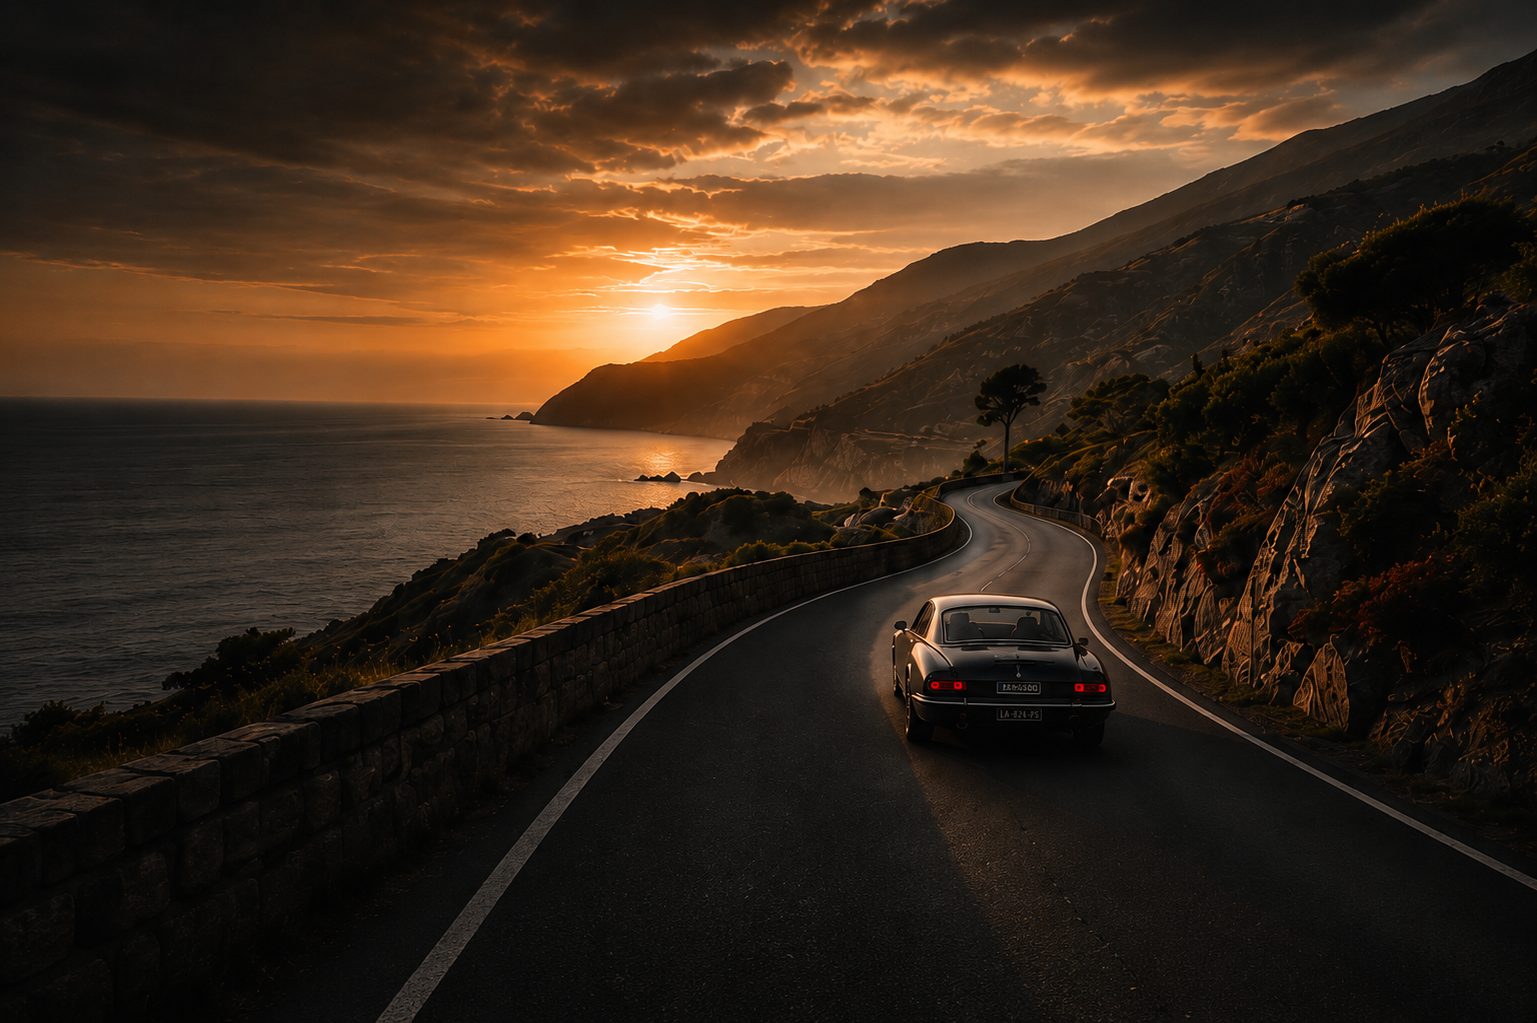
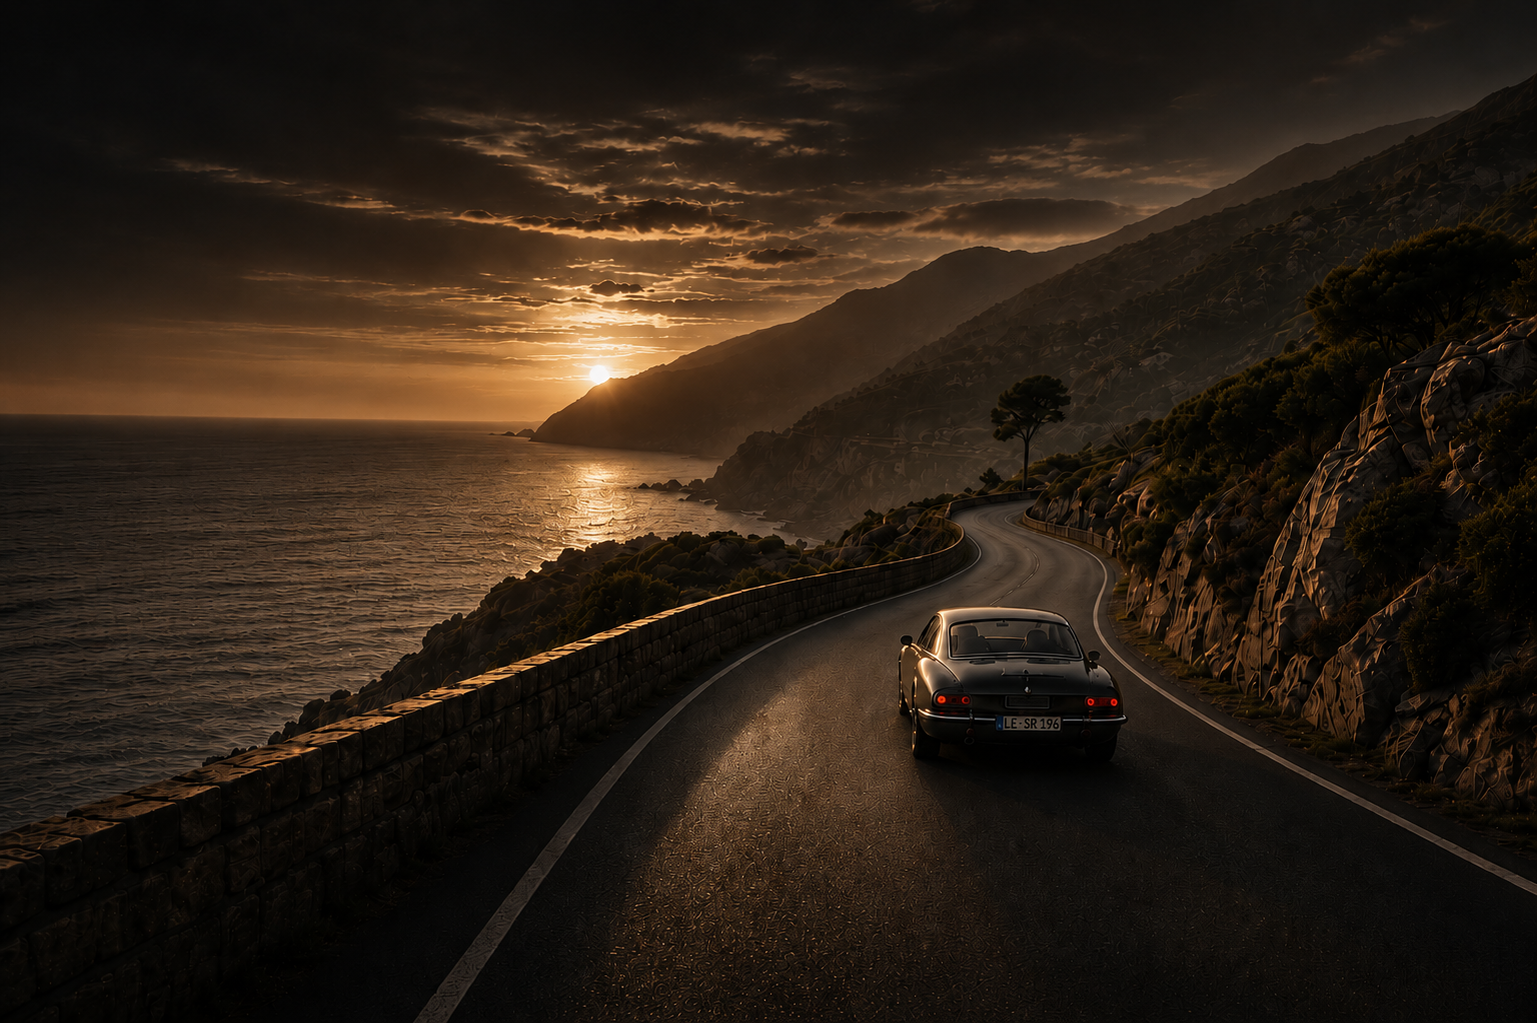
small changes

diff --git a/app/my-trips/page.tsx b/app/my-trips/page.tsx
@@ -100,7 +100,7 @@ export default function MyTripsPage() {
         .dark {
           --bg:#0c0b09; --bg2:#111009; --bg3:#181510;
           --gold:#C9A86A; --cream:#EDE5D4;
-          --muted:rgba(237,229,212,0.56); --dim:rgba(237,229,212,0.32);
+          --muted:rgba(237,229,212,0.56); --dim:rgba(237, 212, 212, 0.32);
           --border:rgba(237,229,212,0.10);
           --serif:'Cormorant Garamond',Georgia,serif;
           --sans:'Inter',system-ui,sans-serif;
@@ -184,14 +184,18 @@ export default function MyTripsPage() {
         .light .page-h1{color:#111; text-shadow:0 2px 8px rgba(0,0,0,.08);}
         .page-sub { margin-top:30px; font-size:18px; color:var(--muted); font-weight:500; line-height:1.8; max-width:470px; }
         .collection-stats { display:flex; gap:14px; margin-top:46px; }
-        .collection-stat { min-width:180px; padding:22px 24px; border:1px solid var(--border); border-radius:18px; background:color-mix(in srgb, var(--border) 40%, transparent); backdrop-filter:blur(20px); box-shadow:0 18px 60px rgba(0,0,0,0.12); transition:background .35s, border-color .35s; }
+        .collection-stat { min-width:180px; padding:22px 24px; border:1px solid var(--border); border-radius:18px; background:color-mix(in srgb, var(--border) 70%, transparent); backdrop-filter:blur(20px); box-shadow:0 18px 60px rgba(0,0,0,0.12); transition:background .35s, border-color .35s; }
         .collection-stat-icon { font-size:19px; color:var(--gold); margin-bottom:10px; }
         .collection-stat-main { display:flex; align-items:flex-end; gap:8px; }
         .collection-stat-number { font-family:var(--serif); font-size:42px; font-weight:300; line-height:0.8; color:var(--cream); }
         .collection-stat-label { font-size:9px; font-weight:800; letter-spacing:0.22em; text-transform:uppercase; color:var(--dim); padding-bottom:3px; }
+        .light .collection-stat { background:color-mix(in srgb, var(--bg) 80%, transparent); border-color:rgba(43,38,32,0.10); box-shadow:0 18px 50px rgba(0,0,0,0.28); }
+        .light .collection-stat-icon { color:var(--gold); }
+        .light .collection-stat-number { color:#2B2620; }
+        .light .collection-stat-label { color:rgba(43,38,32,0.55); }
 
         /* RIGHT PANEL */
-        .saved-preview-panel { width:100%; border:1px solid var(--border); border-radius:26px; background:color-mix(in srgb, var(--bg) 90%, transparent); backdrop-filter:blur(26px); box-shadow:0 34px 100px rgba(0,0,0,0.25),inset 0 1px 0 rgba(255,255,255,0.06); padding:34px; overflow:hidden; transition:background .35s, border-color .35s; }
+        .saved-preview-panel { width:100%; border:1px solid var(--border); border-radius:26px; background:color-mix(in srgb, var(--bg) 60%, transparent); backdrop-filter:blur(26px); box-shadow:0 34px 100px rgba(0,0,0,0.25),inset 0 1px 0 rgba(255,255,255,0.06); padding:34px; overflow:hidden; transition:background .35s, border-color .35s; }
         .saved-preview-head { display:flex; align-items:center; justify-content:space-between; gap:20px; margin-bottom:24px; }
         .saved-preview-title { font-family:var(--serif); font-size:28px; font-weight:400; color:var(--cream); }
         .saved-preview-count { font-size:10px; font-weight:800; letter-spacing:0.22em; text-transform:uppercase; color:var(--gold); opacity:0.88; white-space:nowrap; }
@@ -207,7 +211,8 @@ export default function MyTripsPage() {
         .saved-preview-item:hover .saved-preview-thumb img { transform:scale(1.07); }
         .saved-preview-country { font-size:10px; font-weight:800; letter-spacing:0.26em; text-transform:uppercase; color:var(--gold); margin-bottom:8px; }
         .saved-preview-name { font-family:var(--serif); font-size:32px; font-weight:400; line-height:1; color:var(--cream); margin-bottom:12px; }
-        .saved-preview-meta { display:flex; align-items:center; flex-wrap:wrap; gap:12px; font-size:12px;  color:rgba(0,0,0,.62); font-weight:500; }
+        .saved-preview-meta { display:flex; align-items:center; flex-wrap:wrap; gap:12px; font-size:12px;  color:rgba(255, 255, 255, 0.62); font-weight:500; }
+        .light .saved-preview-meta { display:flex; align-items:center; flex-wrap:wrap; gap:12px; font-size:12px;  color:rgba(0, 0, 0, 0.84); font-weight:500; }
         .saved-preview-meta span { display:inline-flex; align-items:center; gap:6px; }
         .saved-preview-action-wrap { display:flex; flex-direction:column; align-items:center; gap:10px; }
         .saved-preview-action { width:42px; height:42px; border-radius:50%; border:1px solid rgba(201,168,106,0.45); color:var(--gold); display:flex; align-items:center; justify-content:center; transition:all .25s; flex-shrink:0; font-size:23px; line-height:1; padding-bottom:3px; }

diff --git a/app/explore/page.tsx b/app/explore/page.tsx
@@ -87,7 +87,13 @@ function ExplorePageInner() {
   const [username, setUsername] = useState("");
   const searchBarRef = useRef<HTMLDivElement | null>(null);
   const displayName = username || user?.email?.split("@")[0] || "";
+
+  // FIX: isLight ist jetzt unabhängig von "mounted" für die Klassen-Berechnung
+  // nutzbar; wir geben aber erst nach mount ein definitives Theme aus, um SSR-
+  // Hydration-Mismatches zu vermeiden. Default = "dark" (entspricht dem Server-
+  // Render), bis der Client das echte Theme kennt.
   const isLight = mounted && theme === "light";
+  const themeClass = isLight ? "light" : "dark";
 
   const toggleFilter = (key: "difficulty" | "countries", value: string) => {
     setFilters((prev) => ({
@@ -330,6 +336,19 @@ function ExplorePageInner() {
         .search-btn { margin:8px; padding:0 28px; background:var(--gold); color:var(--bg); border-radius:14px; font-size:10px; font-weight:800; letter-spacing:0.2em; text-transform:uppercase; transition:all .25s; white-space:nowrap; box-shadow:0 8px 24px rgba(201,168,106,0.2); }
         .search-btn:hover { background:#d8b978; transform:translateY(-1px); }
 
+        /* LIGHT THEME OVERRIDE FOR SEARCH BAR
+           Die Search-Bar liegt immer auf dem dunklen Hero-Foto, unabhängig
+           vom gewählten Theme. Die .light-Variablen (--border, --muted,
+           --cream) sind für HELLE Seitenhintergründe gedacht und werden auf
+           dem Foto unsichtbar. Daher hier feste, helle Werte erzwingen –
+           analog zu .light .hero-h1 / .hero-sub weiter oben. */
+        .light .search-bar { background:rgba(12,11,9,0.42); border-color:rgba(237,229,212,0.18); }
+        .light .search-field:hover { background:rgba(237,229,212,0.08); }
+        .light .search-field.open { background:rgba(237,229,212,0.14); }
+        .light .search-field-value { color:#fff; }
+        .light .search-field-value .placeholder { color:rgba(237,229,212,0.6); }
+        .light .search-divider { background:rgba(237,229,212,0.22); }
+
         /* DROPDOWN */
         @keyframes ddOpen { from{opacity:0;transform:translateY(-6px) scale(0.99)} to{opacity:1;transform:translateY(0) scale(1)} }
         .search-dropdown { position:absolute; top:calc(100% + 10px); left:0; right:0; min-width:320px; z-index:9999; background:color-mix(in srgb, var(--bg) 98%, transparent); border:1px solid rgba(201,168,106,0.2); border-radius:16px; overflow:hidden; box-shadow:0 32px 80px rgba(0,0,0,0.8); animation:ddOpen .2s cubic-bezier(0.22,1,0.36,1); }
@@ -480,7 +499,13 @@ function ExplorePageInner() {
         }
       `}</style>
 
-      <div className="page">
+      {/* FIX: themeClass ("dark" oder "light") wird hier auf das Root-Element
+          angewendet. Vorher fehlte diese Klasse komplett, wodurch sämtliche
+          CSS-Variablen (--bg, --border, --gold, --cream, --muted, --dim ...)
+          nie aufgelöst wurden. Das erklärte den fehlenden Divider, den
+          fehlenden Placeholder-Stil und den helleren/transparenten
+          Hintergrund der Search-Bar. */}
+      <div className={`page ${themeClass}`}>
         {/* NAV */}
         <nav className={`nav ${navScrolled ? "scrolled" : ""}`}>
           <Link href="/" className="nav-logo">
